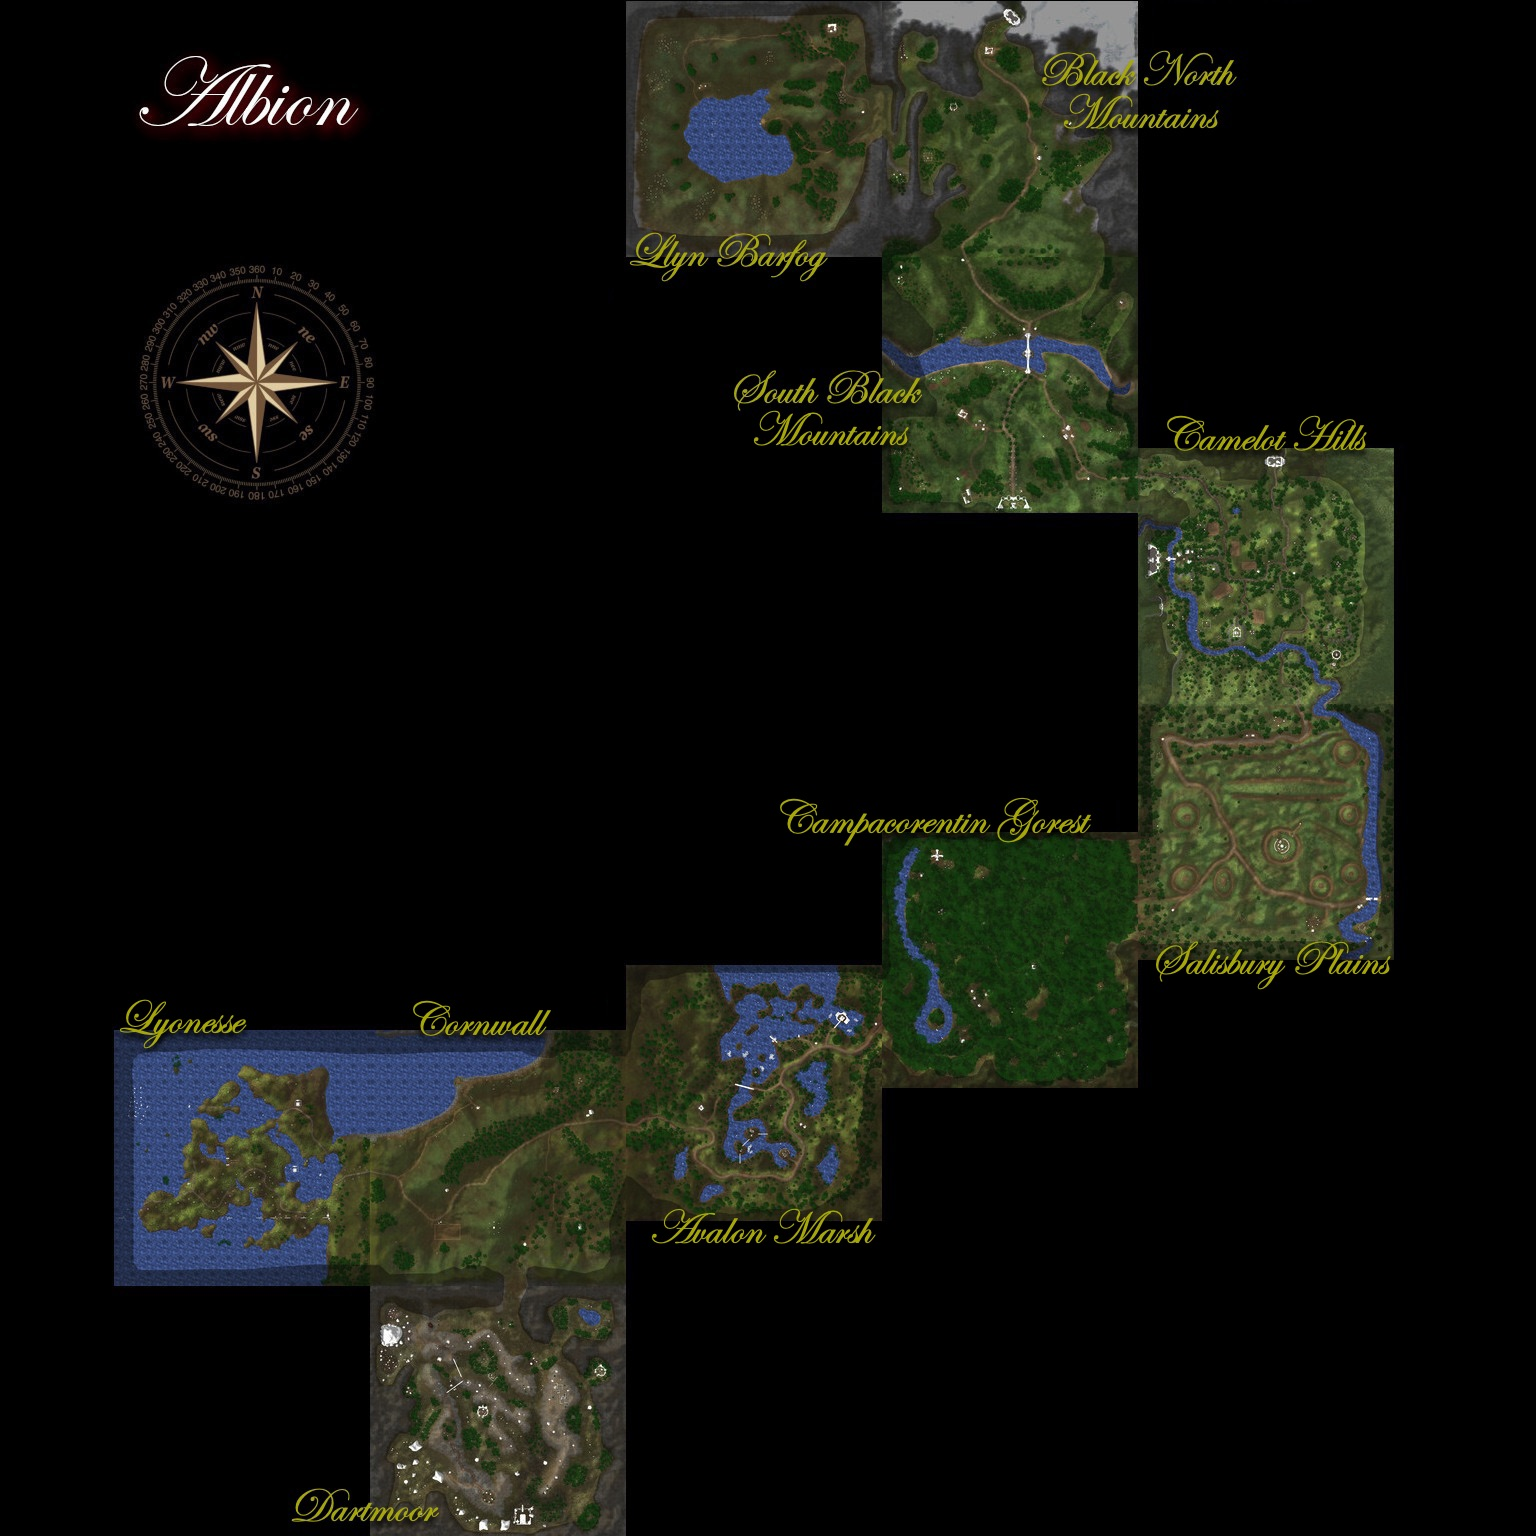
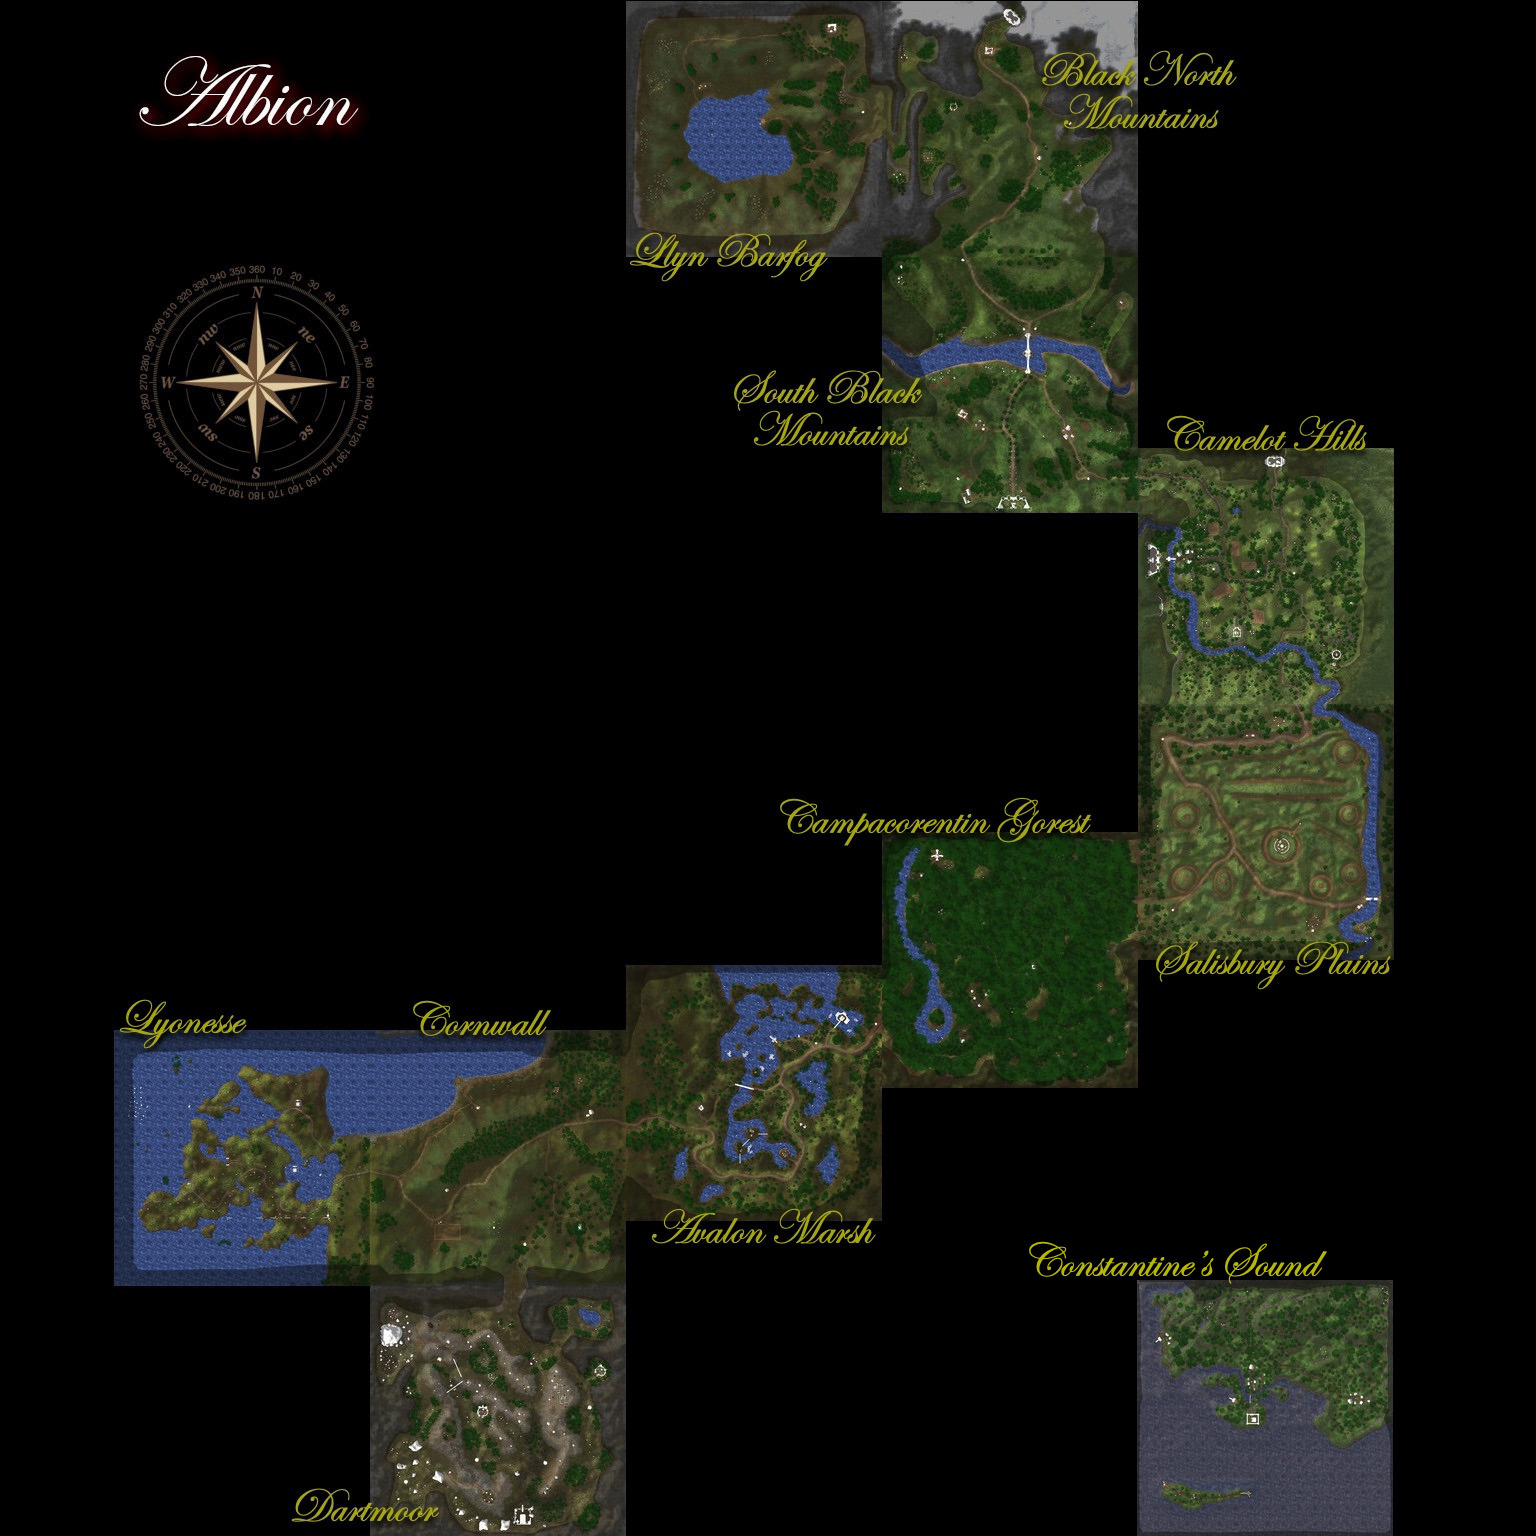
publish site update

Changed region(s): [[0.6562, 0.8125, 0.9062, 1.0]]

diff --git a/hibernia.html b/hibernia.html
@@ -57,6 +57,7 @@
 <img class="center-fit" src="assets/zones/overview/Hibernia_overview_legends.jpg" usemap="#hibernia_overview_map" />
 <img class="center-fit" src="assets/zones/overview/HiberniaSI_overview_legends.jpg" usemap="#hiberniasi_overview_map" />
 <img class="center-fit" src="assets/zones/overview/Hibernia_toa_overview_legends.jpg" usemap="#hiberniatoa_overview_map" />
+<img class="center-fit" src="assets/zones/overview/Hibernia_foundations_overview_legends.jpg" usemap="#hiberniafnd_overview_map" />
 </div>
 <map name="hibernia_overview_map">
   <area shape="rect" coords="346,117,601,372" alt="Cliffs of Moher" href="map.html?zone=zone203&amp;title=Cliffs%20of%20Moher" />
@@ -68,8 +69,8 @@
   <area shape="rect" coords="602,885,857,1140" alt="Shannon Estuary" href="map.html?zone=zone202&amp;title=Shannon%20Estuary" />
   <area shape="rect" coords="602,1141,857,1396" alt="Lough Gur" href="map.html?zone=zone204&amp;title=Lough%20Gur" />
   <area shape="rect" coords="858,1013,1113,1268" alt="Sheeroe Hills" href="map.html?zone=zone216&amp;title=Sheeroe%20Hills" />
-  <area shape="rect" coords="858,1269,1113,1524" alt="Bog of Cullen" href="map.html?zone=zone205&amp;title=Bog%20of%20Cullen
-" />
+  <area shape="rect" coords="858,1269,1113,1524" alt="Bog of Cullen" href="map.html?zone=zone205&amp;title=Bog%20of%20Cullen" />
+  <area shape="rect" coords="161,1269,416,1524" alt="Lamfhotas Sound" href="map.html?zone=zone029&amp;title=Lamfhota%27s%20Sound" />
 </map>
 <map name="hiberniasi_overview_map">
   <area shape="rect" coords="912,1065,1167,1320" alt="Domnann" href="map.html?zone=zone181&amp;title=Domnann" />
@@ -93,6 +94,8 @@
   <area shape="rect" coords="895,1236,1150,1491" alt="Arbor Glen" href="map.html?zone=zone087&amp;title=Arbor%20Glen" />
   <area shape="rect" coords="384,212,639,467" alt="Stygian Delta" href="map.html?zone=zone081&amp;title=Stygian%20Delta" />
   <area shape="rect" coords="128,212,383,467" alt="Land of Atum" href="map.html?zone=zone082&amp;title=Land%20of%20Atum" />
+</map>
+<map name="hiberniafnd_overview_map">
 </map>
 
 </p>

diff --git a/midgard.html b/midgard.html
@@ -57,6 +57,7 @@
 <img class="center-fit" src="assets/zones/overview/Midgard_overview_legends.jpg" usemap="#midgard_overview_map" />
 <img class="center-fit" src="assets/zones/overview/MidgardSI_overview_legends.jpg" usemap="#midgardsi_overview_map" />
 <img class="center-fit" src="assets/zones/overview/Midgard_toa_overview_legends.jpg" usemap="#midgardtoa_overview_map" />
+<img class="center-fit" src="assets/zones/overview/Midgard_foundations_overview_legends.jpg" usemap="#midgardfnd_overview_map" />
 </div>
 <map name="midgard_overview_map">
   <area shape="rect" coords="374,385,629,640" alt="Raumarik" href="map.html?zone=zone108&amp;title=Raumarik" />
@@ -69,6 +70,7 @@
   <area shape="rect" coords="758,1026,1013,1281" alt="Skona Ravine" href="map.html?zone=zone106&amp;title=Skona%20Ravine" />
   <area shape="rect" coords="758,1282,1013,1537" alt="Malmohus" href="map.html?zone=zone116&amp;title=Malmohus" />
   <area shape="rect" coords="502,898,757,1153" alt="Vanern Swamp" href="map.html?zone=zone107&amp;title=Vanern%20Swamp" />
+  <area shape="rect" coords="216,1280,471,1535" alt="Grenlocks Sound" href="map.html?zone=zone028&amp;title=Grenlock%27s%20Sound" />
 </map>
 <map name="midgardsi_overview_map">
   <area shape="rect" coords="335,622,590,877" alt="Aegirs Landing" href="map.html?zone=zone151&amp;title=Aegir%27s%20Landing" />
@@ -92,6 +94,8 @@
   <area shape="rect" coords="895,1236,1150,1491" alt="Arbor Glen" href="map.html?zone=zone087&amp;title=Arbor%20Glen" />
   <area shape="rect" coords="384,212,639,467" alt="Stygian Delta" href="map.html?zone=zone081&amp;title=Stygian%20Delta" />
   <area shape="rect" coords="128,212,383,467" alt="Land of Atum" href="map.html?zone=zone082&amp;title=Land%20of%20Atum" />
+</map>
+<map name="midgardfnd_overview_map">
 </map>
 
 </p>

diff --git a/albion.html b/albion.html
@@ -57,6 +57,7 @@
 <img class="center-fit" src="assets/zones/overview/Albion_overview_legends.jpg" usemap="#albion_overview_map" />
 <img class="center-fit" src="assets/zones/overview/AlbionSI_overview_legends.jpg" usemap="#albionsi_overview_map" />
 <img class="center-fit" src="assets/zones/overview/Albion_toa_overview_legends.jpg" usemap="#albiontoa_overview_map" />
+<img class="center-fit" src="assets/zones/overview/Albion_foundations_overview_legends.jpg" usemap="#albionfnd_overview_map" />
 </div>
 <map name="albion_overview_map">
   <area shape="rect" coords="1138,448,1394,704" alt="Camelot Hills" href="map.html?zone=zone000&amp;title=Camelot%20Hills" />
@@ -69,6 +70,7 @@
   <area shape="rect" coords="370,1030,625,1285" alt="Cornwall" href="map.html?zone=zone006&amp;title=Cornwall" />
   <area shape="rect" coords="114,1030,369,1285" alt="Lyonesse" href="map.html?zone=zone010&amp;title=Lyonesse" />
   <area shape="rect" coords="370,1286,625,1531" alt="Dartmoor" href="map.html?zone=zone004&amp;title=Dartmoor" />
+  <area shape="rect" coords="1137,1280,1392,1535" alt="Constantines Sound" href="map.html?zone=zone027&amp;title=Constantine%27s%20Sound" />
 </map>
 <map name="albionsi_overview_map">
   <area shape="rect" coords="1220,879,1475,1134" alt="Isle of Glass" href="map.html?zone=zone051&amp;title=Isle%20of%20Glass" />
@@ -93,7 +95,8 @@
   <area shape="rect" coords="384,212,639,467" alt="Stygian Delta" href="map.html?zone=zone081&amp;title=Stygian%20Delta" />
   <area shape="rect" coords="128,212,383,467" alt="Land of Atum" href="map.html?zone=zone082&amp;title=Land%20of%20Atum" />
 </map>
-
+<map name="albionfnd_overview_map">
+</map>
 </p>
         </div>
 		        <footer class="text-center bg-dark">

diff --git a/rvr.html b/rvr.html
@@ -56,6 +56,7 @@
             <p><div class="imgbox">
 <img class="center-fit" src="assets/zones/overview/NewFrontiers_overview_legends.jpg" usemap="#rvr_new_overview_map" />
 <img class="center-fit" src="assets/zones/overview/OldFrontiers_overview_legends.jpg" usemap="#rvr_overview_map" />
+<img class="center-fit" src="assets/zones/overview/Battlegrounds_overview_legends.jpg" usemap="#bg_overview_map" />
 </div>
 <map name="rvr_new_overview_map">
   <area shape="rect" coords="336,767,591,1022" alt="Emain Macha" href="map.html?zone=zone171&amp;title=Emain%20Macha%20NF" />
@@ -87,7 +88,8 @@
   <area shape="rect" coords="327,1234,582,1489" alt="Mount Collory" href="map.html?zone=zone210&amp;title=Mount%20Collory" />
   <area shape="rect" coords="455,722,710,977" alt="Emain Macha" href="map.html?zone=zone214&amp;title=Emain%20Macha" />
 </map>
-
+<map name="bg_overview_map">
+</map>
 </p>
         </div>
 		        <footer class="text-center bg-dark">
